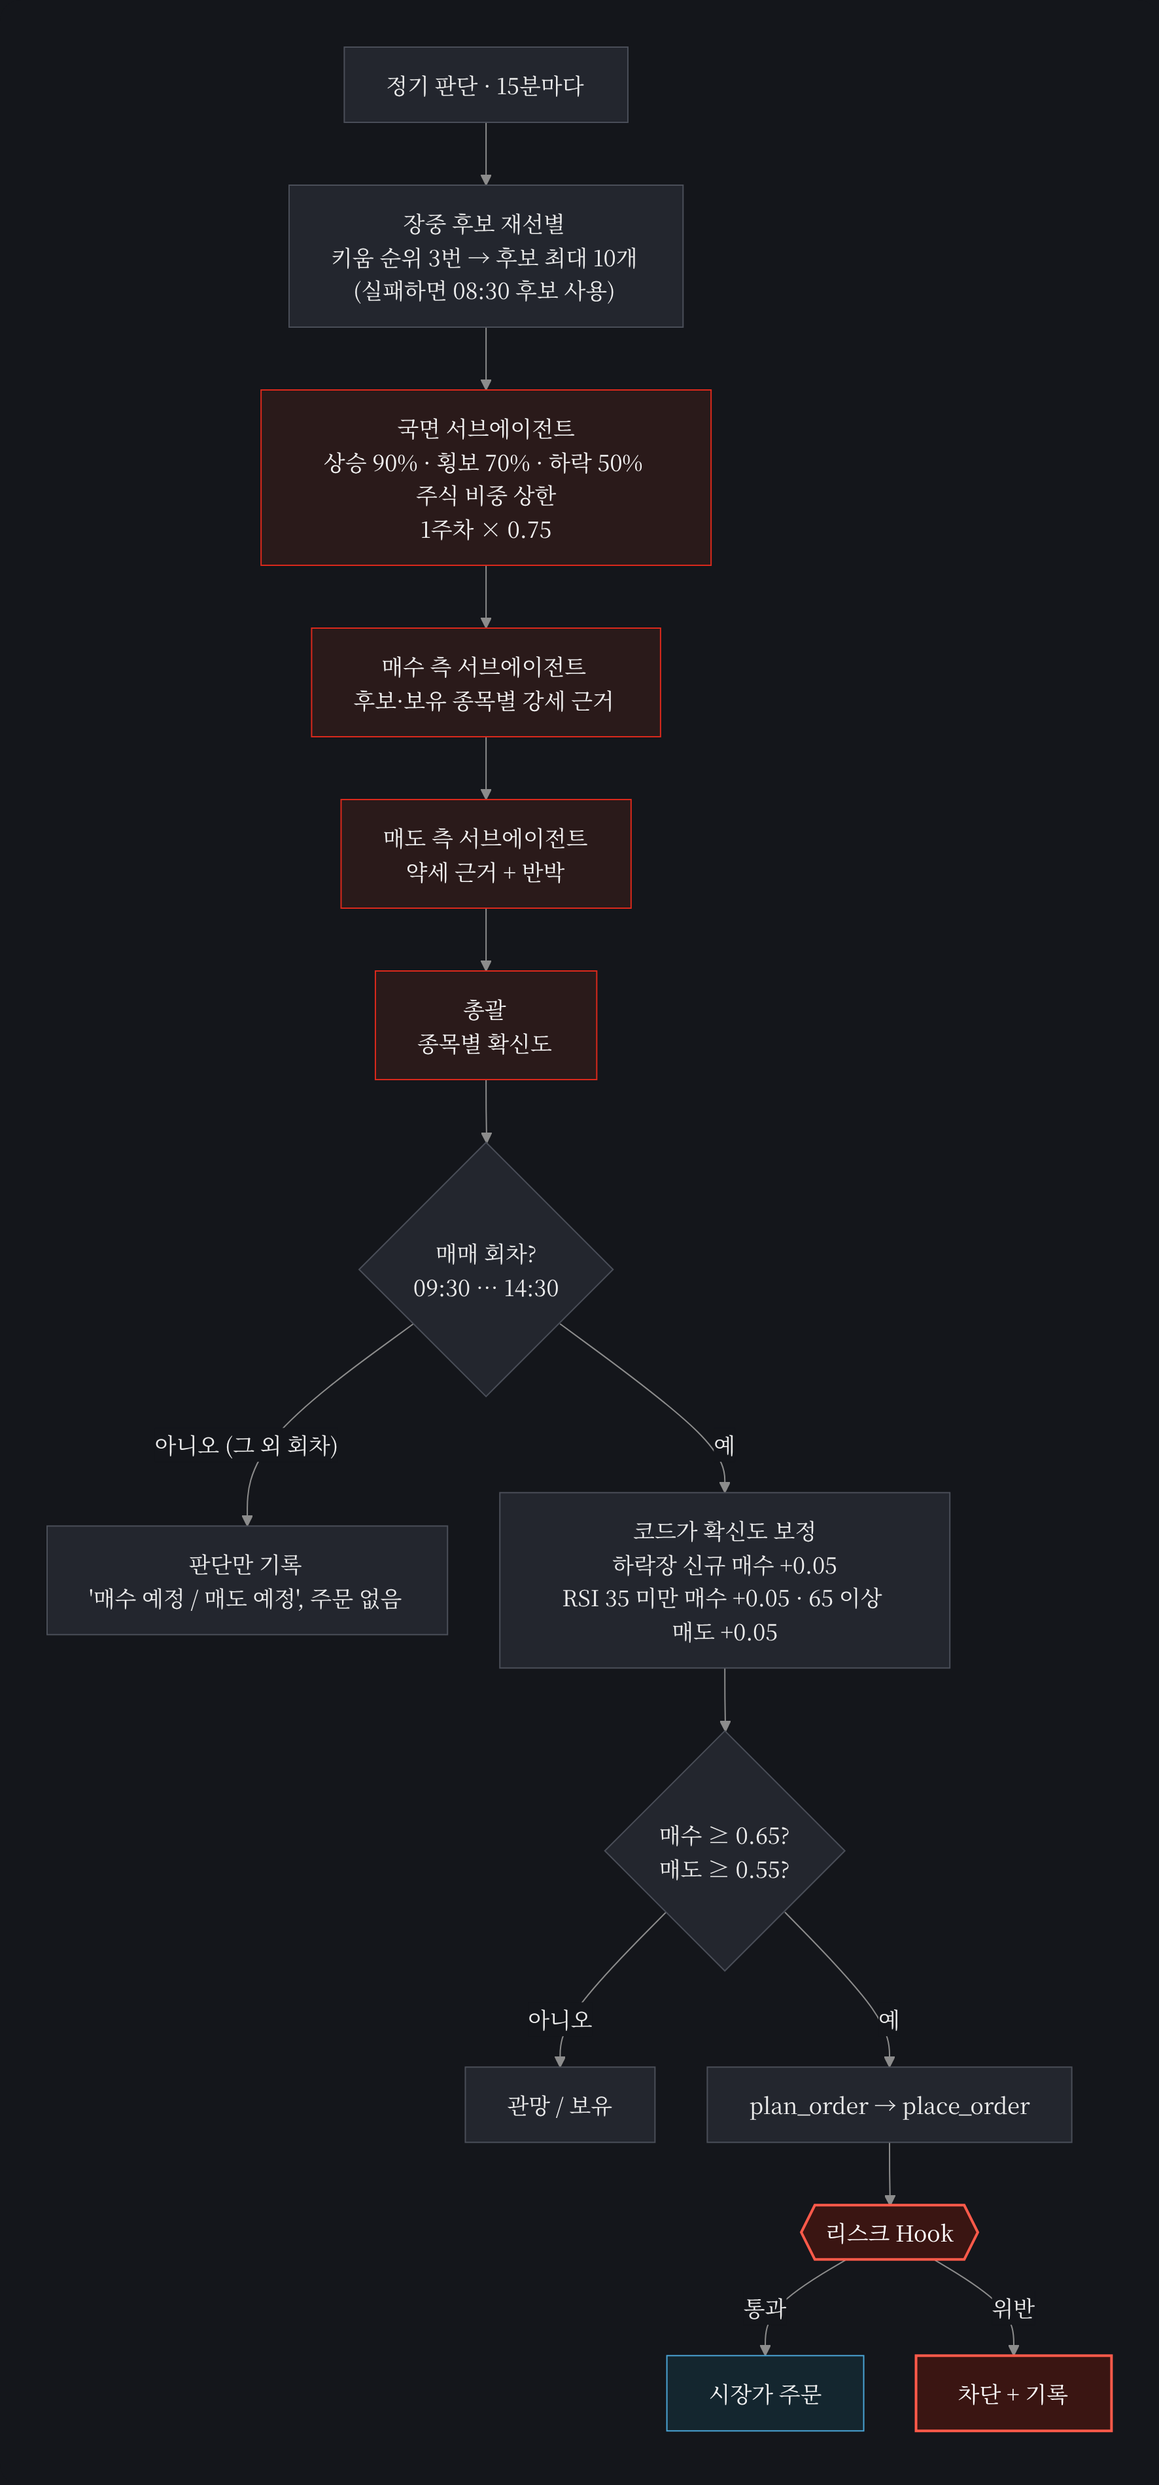
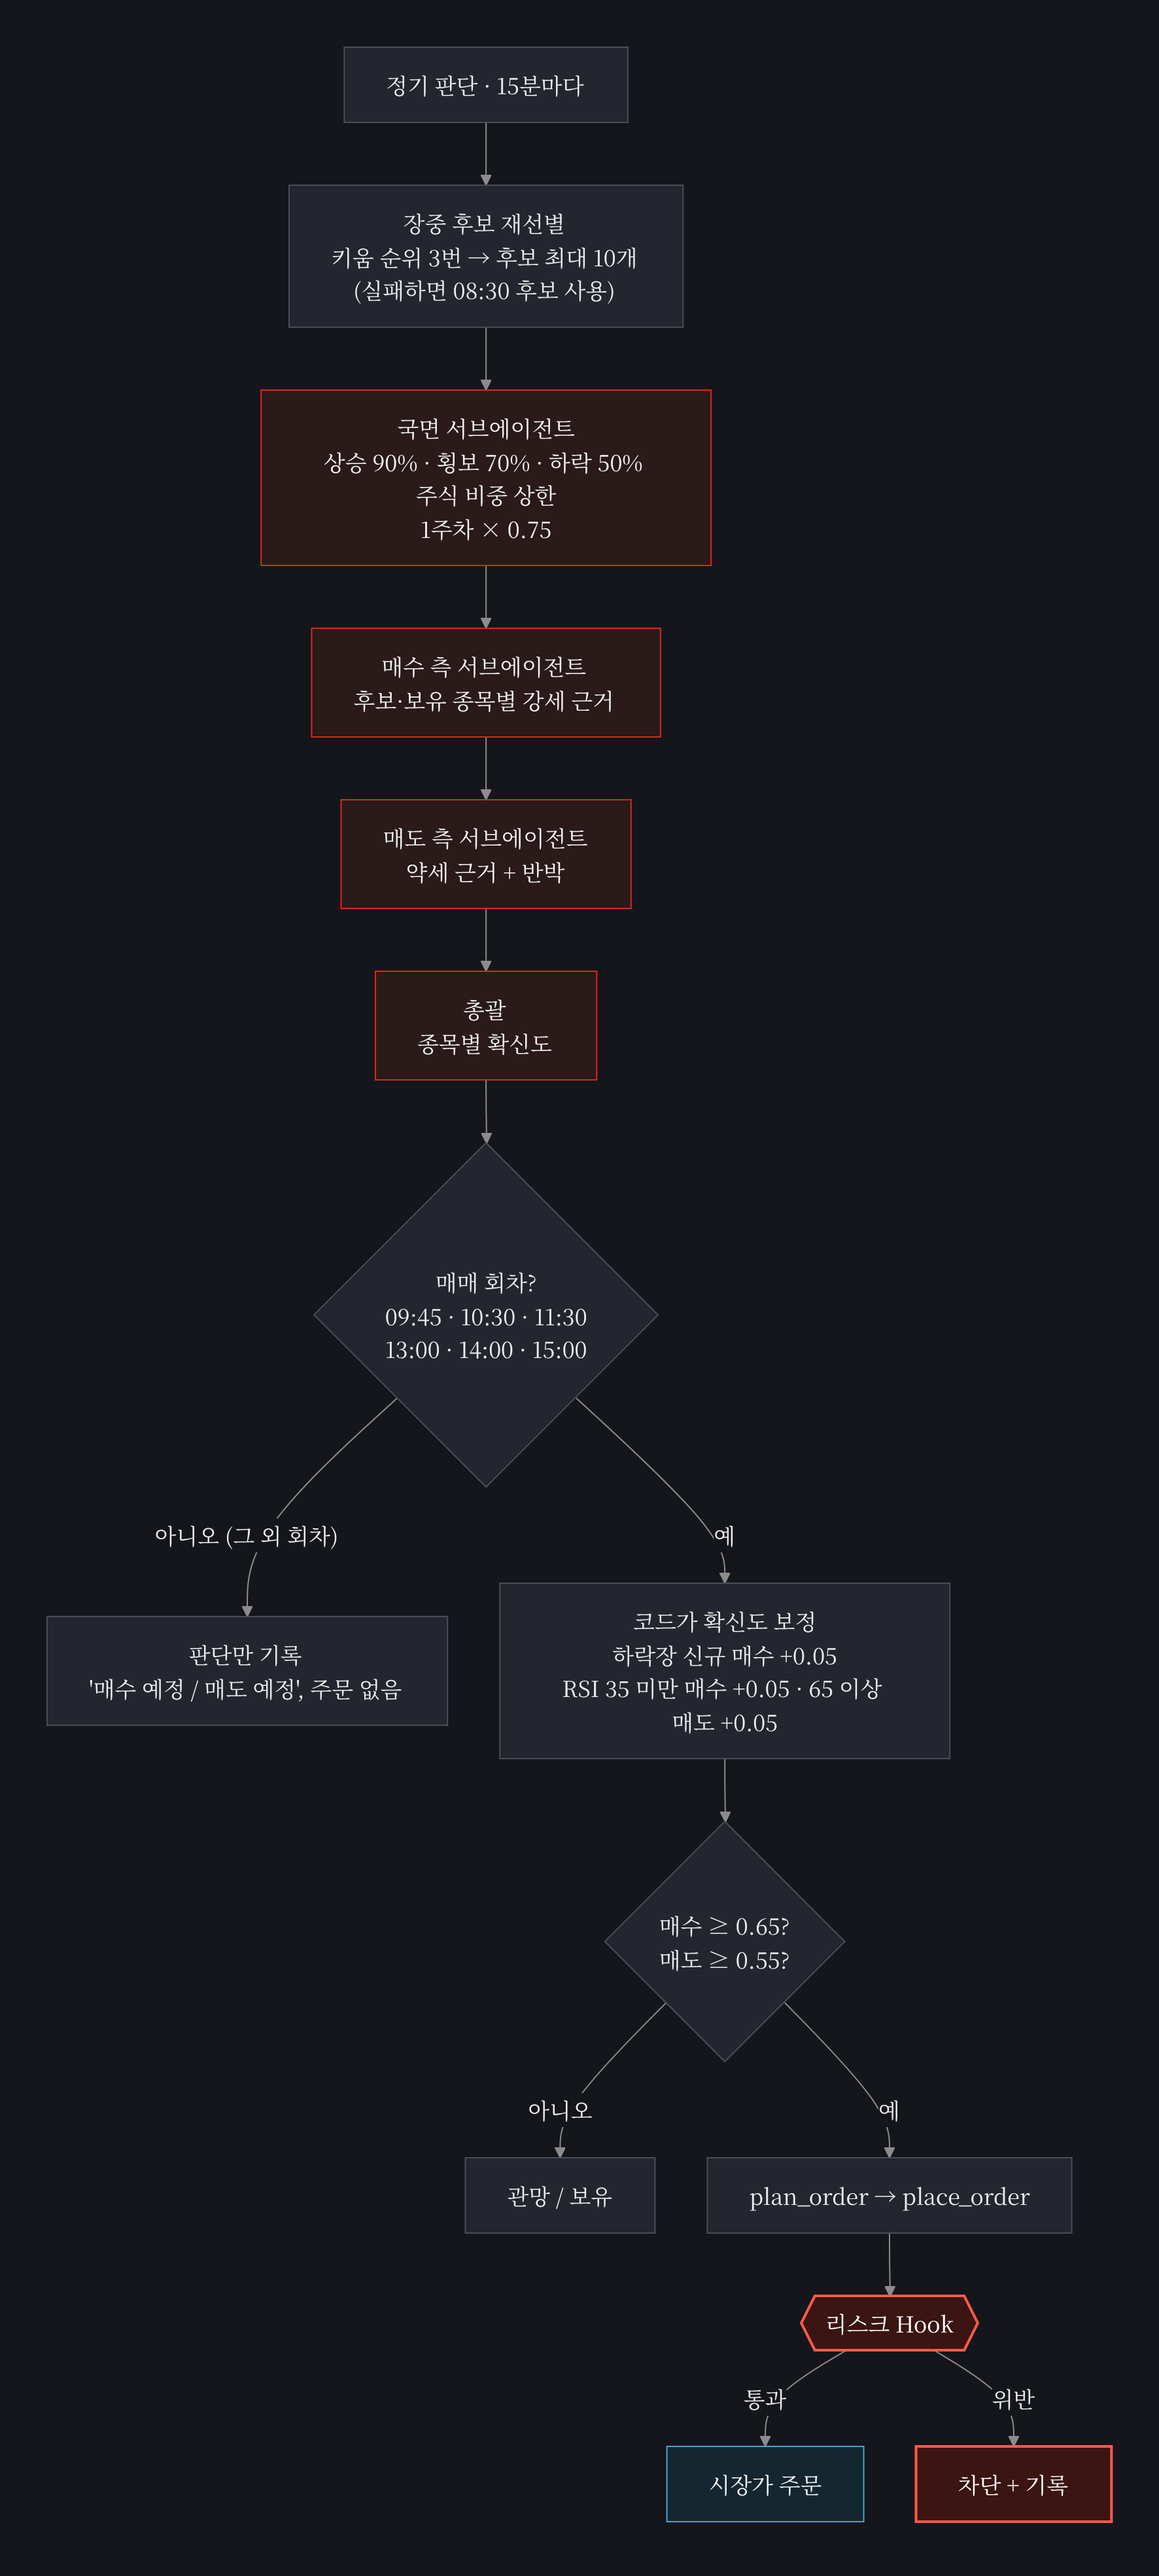
Agent: trade at 09:45, 10:30, 11:30, 13:00, 14:00 and 15:00
Still six order slots a day, moved off the opening half hour and lunch and
adding one just before the close. params.schedule.trade_times drives it;
the dashboard chip, agent instructions, READMEs and the decision diagram follow.

Claude-Session: https://claude.ai/code/session_01ATjxQjXT9xLkTvZTtNpqzA

diff --git a/docs/index.html b/docs/index.html
@@ -1463,19 +1463,19 @@ details.log summary { border-radius: 16px; }
   }
   tk.addEventListener('click', () => fab.click());
 
-  // ---------- 매매 시각: 평일 09:30~14:30 매시 매매, 판단은 15분마다 (agent/setup_tasks.ps1 · params.schedule 과 맞출 것). 다음 매매에 빨간 점 ----------
-  const SCHED = { from: '09:30', to: '14:30', every: 60, judge: 15 };
+  // ---------- 매매 시각: 평일 하루 6번 매매, 판단은 15분마다 (agent/setup_tasks.ps1 · params.schedule.trade_times 와 맞출 것). 다음 매매에 빨간 점 ----------
+  const SCHED = { trades: ['09:45', '10:30', '11:30', '13:00', '14:00', '15:00'], judge: 15 };
   const sched = document.getElementById('sched');
   function drawSched() {
     const k = new Date(Date.now() + 9 * 3600e3), day = k.getUTCDay();   // 한국 시각
     const hm = m => String(Math.floor(m / 60)).padStart(2, '0') + ':' + String(m % 60).padStart(2, '0'), toM = t => +t.slice(0, 2) * 60 + +t.slice(3);
-    const now = k.getUTCHours() * 60 + k.getUTCMinutes(), a = toM(SCHED.from), b = toM(SCHED.to);
-    const n = a + Math.max(0, Math.ceil((now + 1 - a) / SCHED.every)) * SCHED.every;
-    const next = day >= 1 && day <= 5 && n <= b ? hm(n) : null;
+    const now = k.getUTCHours() * 60 + k.getUTCMinutes(), tt = SCHED.trades;
+    const n = tt.map(toM).find(m => m > now);
+    const next = day >= 1 && day <= 5 && n != null ? hm(n) : null;
     sched.textContent = '';
     const add = (html, live) => { const c = document.createElement('span'); c.className = 'chip' + (live ? ' live' : ''); c.innerHTML = html; sched.appendChild(c); return c; };
     add('평일 매매');
-    add(`<b>${SCHED.from}~${SCHED.to}</b> 매시`);
+    add(`<b>${tt[0]}~${tt[tt.length - 1]}</b> ${tt.length}번`);
     add(`판단 <b>${SCHED.judge}분</b>마다`);
     if (next) add(`다음 매매 <b>${next}</b>`, true);
   }

diff --git a/agent/run.py b/agent/run.py
@@ -2,7 +2,7 @@
 에이전트 실행기. 작업 스케줄러가 run.bat 을 통해 부릅니다.
 
   python run.py prep                  08:30  계좌 조회 + 데이터 준비 (LLM 없음)
-  python run.py decide                09:30 · 11:00 · 14:30  정기 판단 (Claude Code 헤드리스)
+  python run.py decide                09:30~15:00 15분마다  정기 판단 (trade_times 회차만 주문, 나머지는 view)
   python run.py exit --codes A,B      장중 감시가 손절·익절 조건을 보면 호출 (매도만)
   python run.py close                 15:45  계좌 조회 + 오늘 자산을 equity 에 기록
   python run.py review                토 10:00  주간 회고 (보고서 초안 + 조정 제안)
@@ -219,7 +219,7 @@ def main():
             py("intraday.py")   # 장중 거래대금·외국인·기관 순매수로 후보 갱신 (실패하면 08:30 후보 유지)
             py("intraday.py", "--rsi")   # 후보·보유 종목 RSI 를 지금 가격으로 다시 계산 (실패하면 전일 RSI)
         p = C.params()
-        if kind == "decide" and not C.trade_slot():   # 판단은 30분마다, 매매는 trade_times(매시 30분) 회차에만
+        if kind == "decide" and not C.trade_slot():   # 판단은 15분마다, 매매는 params.schedule.trade_times 회차에만
             kind = "view"
         start = p["competition"]["start"]
         prompt = PROMPTS[kind].format(time=C.stamp(), codes=a.codes, why=a.why, next_trade=C.next_trade_time() or "내일",

diff --git a/CLAUDE.md b/CLAUDE.md
@@ -45,7 +45,7 @@ reports/    보고서 PDF, drafts/ = 주간 회고 에이전트가 쓴 초안
 
 ### 실행 일정 (10-29 결정: 하루 1번 → 2번 + 장중 감시)
 
-평일 08:25 잔고 수집 시작 · 08:30 준비 · 08:30~15:20 1분 감시(손절·익절 걸리면 매도 전용 실행. 11-04 09:05→08:30, 장 전 매도는 09:00 동시호가로 체결되고 09:05 뒤 남아 있으면 한 번 더. 11-04 오후 5분→1분, "같은 종목 하루 1번" 제한 폐기 → 같은 매수 건은 실행 뒤 10분 지나도 남아 있으면 다시) · **09:30~15:00 15분마다 판단, 주문은 09:30~14:30 매시 30분 회차만** (11-02 하루 2번 → 3번 → 11-03 판단 30분마다 · 매매 매시 → 11-04 판단 15분마다 (하루 23번, 토큰 약 2배). 작업 `Hynix298-decide` 하나가 반복, `run.py` 가 `params.schedule.trade_times` 로 매매/판단 갱신(view)을 가름) · 15:45 마감 기록 · **평일 16:00 기준값 자동 조정** (11-02 화·수·목 추가 → 11-03 매일). 토 10:00 주간 회고.
+평일 08:25 잔고 수집 시작 · 08:30 준비 · 08:30~15:20 1분 감시(손절·익절 걸리면 매도 전용 실행. 11-04 09:05→08:30, 장 전 매도는 09:00 동시호가로 체결되고 09:05 뒤 남아 있으면 한 번 더. 11-04 오후 5분→1분, "같은 종목 하루 1번" 제한 폐기 → 같은 매수 건은 실행 뒤 10분 지나도 남아 있으면 다시) · **09:30~15:00 15분마다 판단, 주문은 09:45·10:30·11:30·13:00·14:00·15:00 6번만** (11-04 매시 30분에서 변경: 장 초반 변동·점심 피하고 마감 직전 포함) (11-02 하루 2번 → 3번 → 11-03 판단 30분마다 · 매매 매시 → 11-04 판단 15분마다 (하루 23번, 토큰 약 2배). 작업 `Hynix298-decide` 하나가 반복, `run.py` 가 `params.schedule.trade_times` 로 매매/판단 갱신(view)을 가름) · 15:45 마감 기록 · **평일 16:00 기준값 자동 조정** (11-02 화·수·목 추가 → 11-03 매일). 토 10:00 주간 회고.
 계획서의 "장 시작 전 1회"에서 바꾼 것이므로 첫 주간 보고서에 변경 이유를 적을 것.
 손절 주문도 코드가 직접 내지 않고 에이전트 + Hook을 거침 (AI 주문 규정).
 

diff --git a/README.md b/README.md
@@ -27,7 +27,7 @@ Team *Hynix 298F* · 2026 Navist UOStock AI Auto-Trading Mock Investment Competi
 | **Competition** | Korean equities mock trading, Nov 2 – 27, 2026 · one team account · ₩50M |
 | **Rule** | The AI must make every decision and place every order itself. No manual orders, no human approval of orders |
 | **Approach** | LLMs debate and score conviction. Python sizes the order, a Hook can veto it |
-| **Cadence** | A decision every 15 min (09:30 – 15:00), orders only on the half hour |
+| **Cadence** | A decision every 15 min (09:30 – 15:00), orders in 6 of them |
 | **Result** | 🏁 After the competition (Nov 29, 2026) |
 
 ## Why this design
@@ -101,8 +101,8 @@ Every change and rejection shows up on the dashboard (Feedback Loop).
 | 08:30 | `prep` — account, KRX data, news → briefing | – |
 | 08:55 → | Balance snapshot every minute → Supabase | – |
 | 09:05 – 15:20 | `monitor` — stop / target / holding days every 5 min | only when hit |
-| **09:30, 10:30 … 14:30** | `decide` — re-screen → debate → **orders** | ✓ |
-| 09:45, 10:00, 10:15 … 15:00 (every 15 min, except :30 slots) | `view` — same debate, **no orders**, refreshes the dashboard | ✓ |
+| **09:45, 10:30, 11:30, 13:00, 14:00, 15:00** | `decide` — re-screen → debate → **orders** | ✓ |
+| the other 15-min slots, 09:30 – 14:45 | `view` — same debate, **no orders**, refreshes the dashboard | ✓ |
 | 15:45 | `close` — record today's equity | – |
 | 16:00 | `tune` — threshold self-tuning | ✓ |
 | Sat 10:00 | `review` — weekly review and report draft | ✓ |

diff --git a/README.ko.md b/README.ko.md
@@ -27,7 +27,7 @@
 | **대회** | 국내 주식 모의투자, 2026.11.02 – 11.27 · 팀 계좌 1개 · 5,000만 원 |
 | **규칙** | 판단과 주문은 AI가 직접. 사람의 수동 주문·주문 승인 금지 |
 | **접근** | LLM은 토론하고 확신도만 매김. 수량은 Python이 계산하고, Hook이 주문을 막을 수 있음 |
-| **주기** | 15분마다 판단 (09:30 – 15:00), 주문은 매시 30분 회차에만 |
+| **주기** | 15분마다 판단 (09:30 – 15:00), 그중 6번만 주문 |
 | **결과** | 🏁 대회 종료 후 (2026.11.29) |
 
 ## 왜 이렇게 만들었나
@@ -101,8 +101,8 @@ LLM에게 매매를 통째로 맡기면 두 가지가 문제입니다.
 | 08:30 | `prep` — 계좌, KRX 데이터, 뉴스 → 브리핑 | – |
 | 08:55 → | 잔고 스냅샷 1분마다 → Supabase | – |
 | 09:05 – 15:20 | `monitor` — 1분마다 손절·익절·보유일 | 걸릴 때만 |
-| **09:30, 10:30 … 14:30** | `decide` — 재선별 → 토론 → **주문** | ✓ |
-| 09:45, 10:00, 10:15 … 15:00 (15분마다, 30분 회차 제외) | `view` — 같은 토론, **주문 없음**, 대시보드 갱신 | ✓ |
+| **09:45, 10:30, 11:30, 13:00, 14:00, 15:00** | `decide` — 재선별 → 토론 → **주문** | ✓ |
+| 나머지 15분 회차 (09:30 – 14:45) | `view` — 같은 토론, **주문 없음**, 대시보드 갱신 | ✓ |
 | 15:45 | `close` — 오늘 자산 기록 | – |
 | 16:00 | `tune` — 기준값 자동 조정 | ✓ |
 | 토 10:00 | `review` — 주간 회고, 보고서 초안 | ✓ |

diff --git a/agent/CLAUDE.md b/agent/CLAUDE.md
@@ -13,7 +13,7 @@
 ## 실행 종류
 실행 프롬프트가 어떤 실행인지 알려줍니다.
 
-### A. 정기 판단 (매매 회차: 09:30~14:30 매시 30분)
+### A. 정기 판단 (매매 회차: 09:45 · 10:30 · 11:30 · 13:00 · 14:00 · 15:00)
 1. `get_briefing`, `get_account` 로 상황을 봅니다.
 2. **regime** 서브에이전트에게 국면을 묻고 → `set_regime` 으로 기록합니다.
 3. 대상 = 보유 종목 전체 + 후보 종목. 둘 다 없으면 8로 갑니다.
@@ -30,7 +30,7 @@
    - 주문하지 않은 보유 종목은 `record_decision(action="보유")`, 확신도가 가장 높았던 미매수 후보 1~3개는 `record_decision(action="관망")`.
 8. 마지막에 한 줄 요약을 출력하고 끝냅니다: `국면 / 매수 n건 / 매도 n건 / 관망 n건`
 
-### A-2. 판단 갱신 (매매 없는 회차: 매시 30분이 아닌 15분 간격 회차, 09:45~15:00)
+### A-2. 판단 갱신 (매매 없는 회차: 09:30~15:00 15분 간격 중 위 6개를 뺀 나머지)
 대시보드의 '실시간 판단'을 15분마다 새로 고치는 실행입니다. **주문하지 않습니다** (`place_order` 를 부르지 않음. 불러도 서버가 막음).
 - A 의 1~6을 똑같이 합니다 (국면 기록, bull ⇄ bear, 확신도). `plan_order` 로 수량을 볼 수는 있습니다.
 - 7 대신 대상 종목마다 `record_decision` 으로 기록합니다.

diff --git a/agent/README.md b/agent/README.md
@@ -8,7 +8,7 @@ The trading agent. **The agent proposes, the rules decide**: Claude Code reads t
 |---|---|---|
 | 08:30 | `prep` — account + data prep → `work/briefing.json` | no |
 | 08:30–15:20 | `monitor` — every 5 min, checks stop / take-profit / max holding days; launches an `exit` run when hit | only when triggered |
-| 09:30–15:00, every 15 min | `decide` — intraday re-screen → regime → bull ⇄ bear debate → lead agent decides → orders on the half hour (09:30–14:30); other slots run as `view` (same debate, no orders) | yes |
+| 09:30–15:00, every 15 min | `decide` — intraday re-screen → regime → bull ⇄ bear debate → lead agent decides → orders only in `params.schedule.trade_times` (09:45, 10:30, 11:30, 13:00, 14:00, 15:00); other slots run as `view` (same debate, no orders) | yes |
 | 15:45 | `close` — record today's equity, publish to dashboard | no |
 | 16:00 | `tune` — agent proposes 0–2 threshold changes; `src/tuning.py` applies only those inside `config/tuning.json` and commits | yes |
 | Sat 10:00 | `review` — weekly review + report draft | yes |
